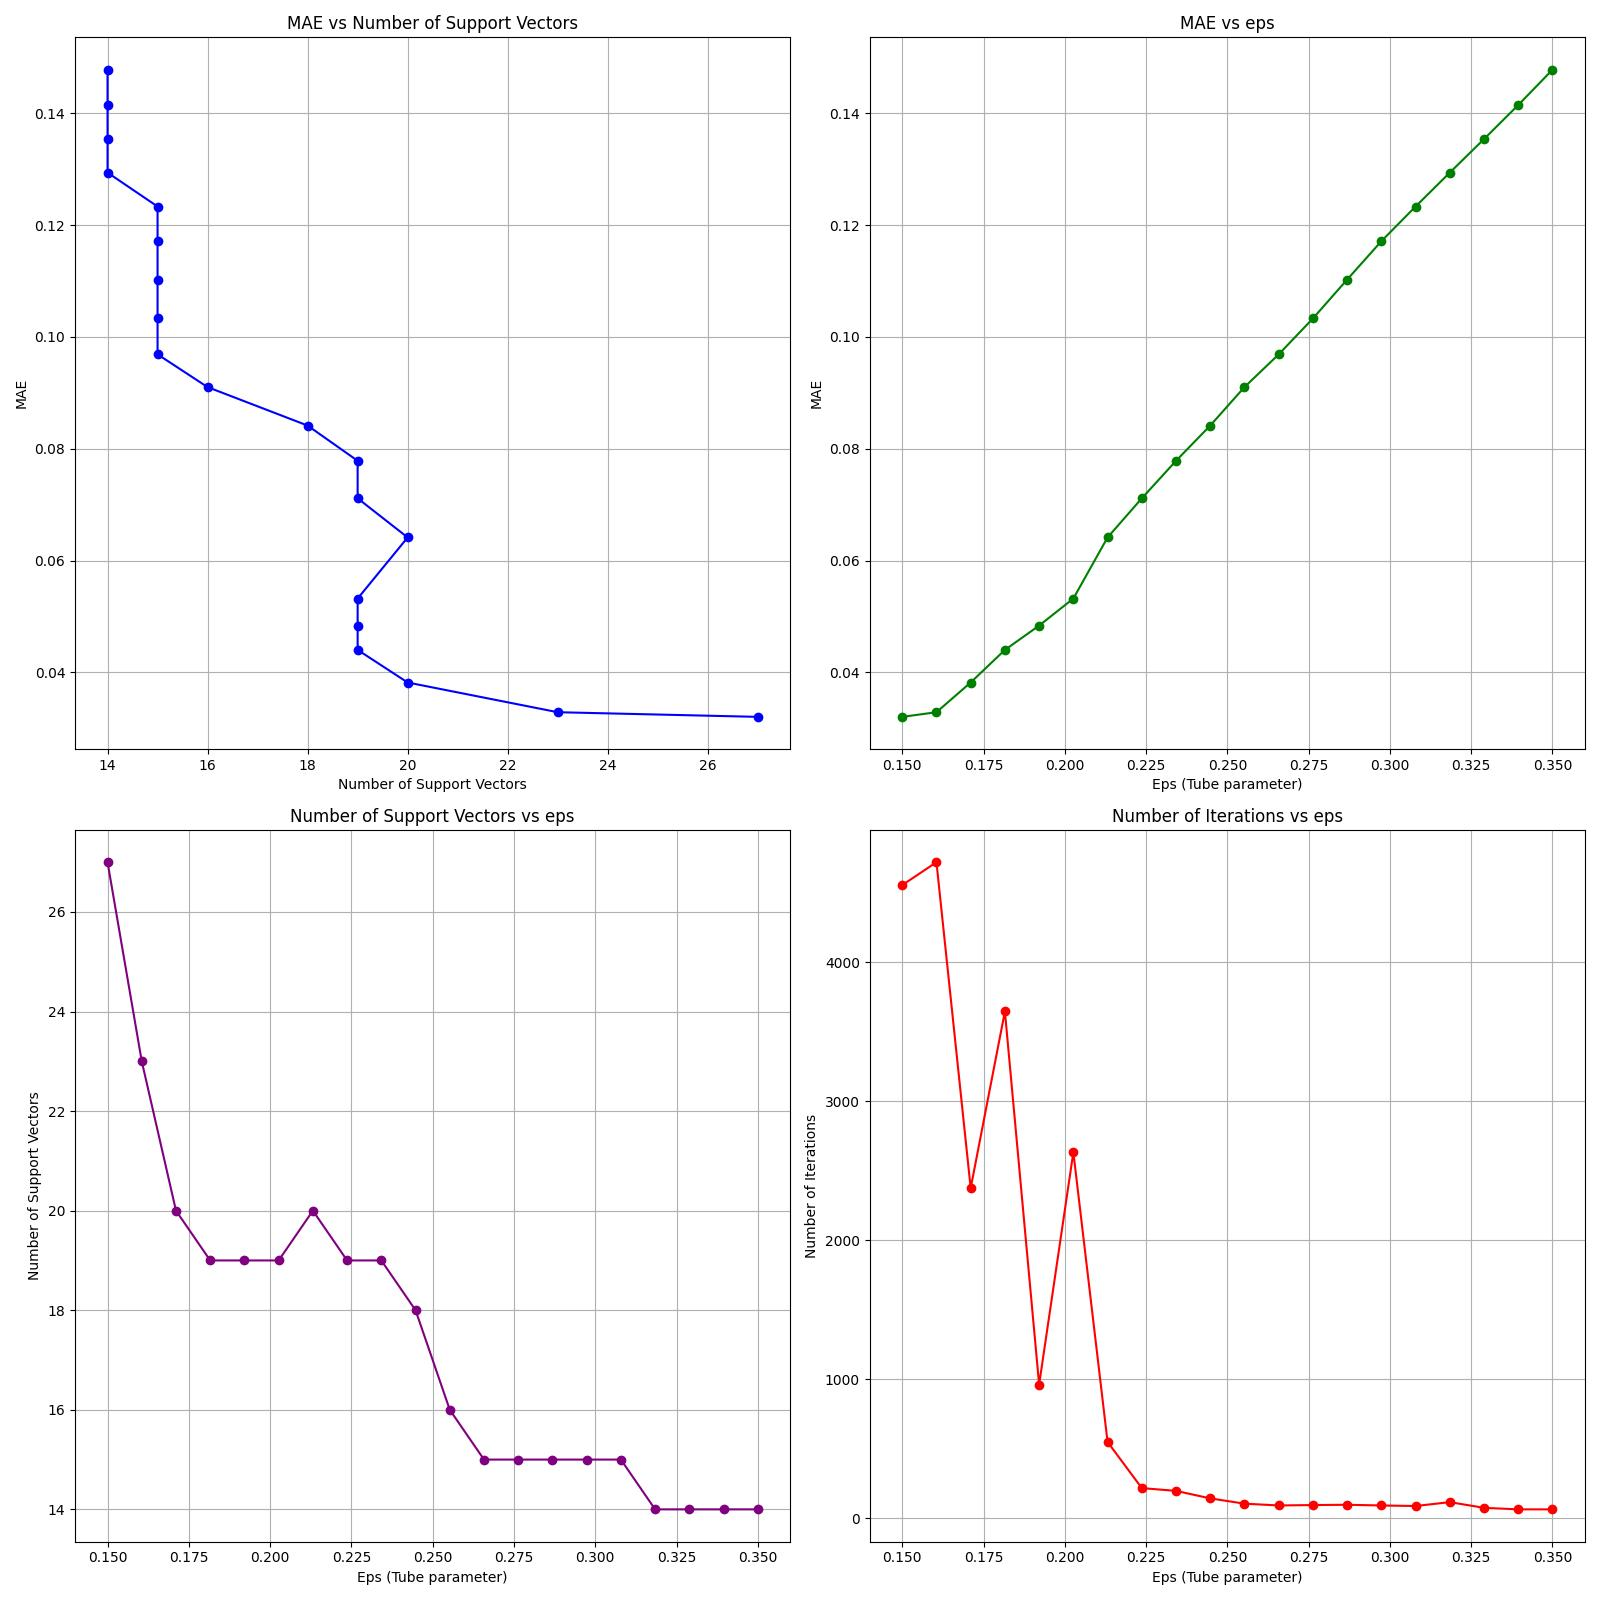
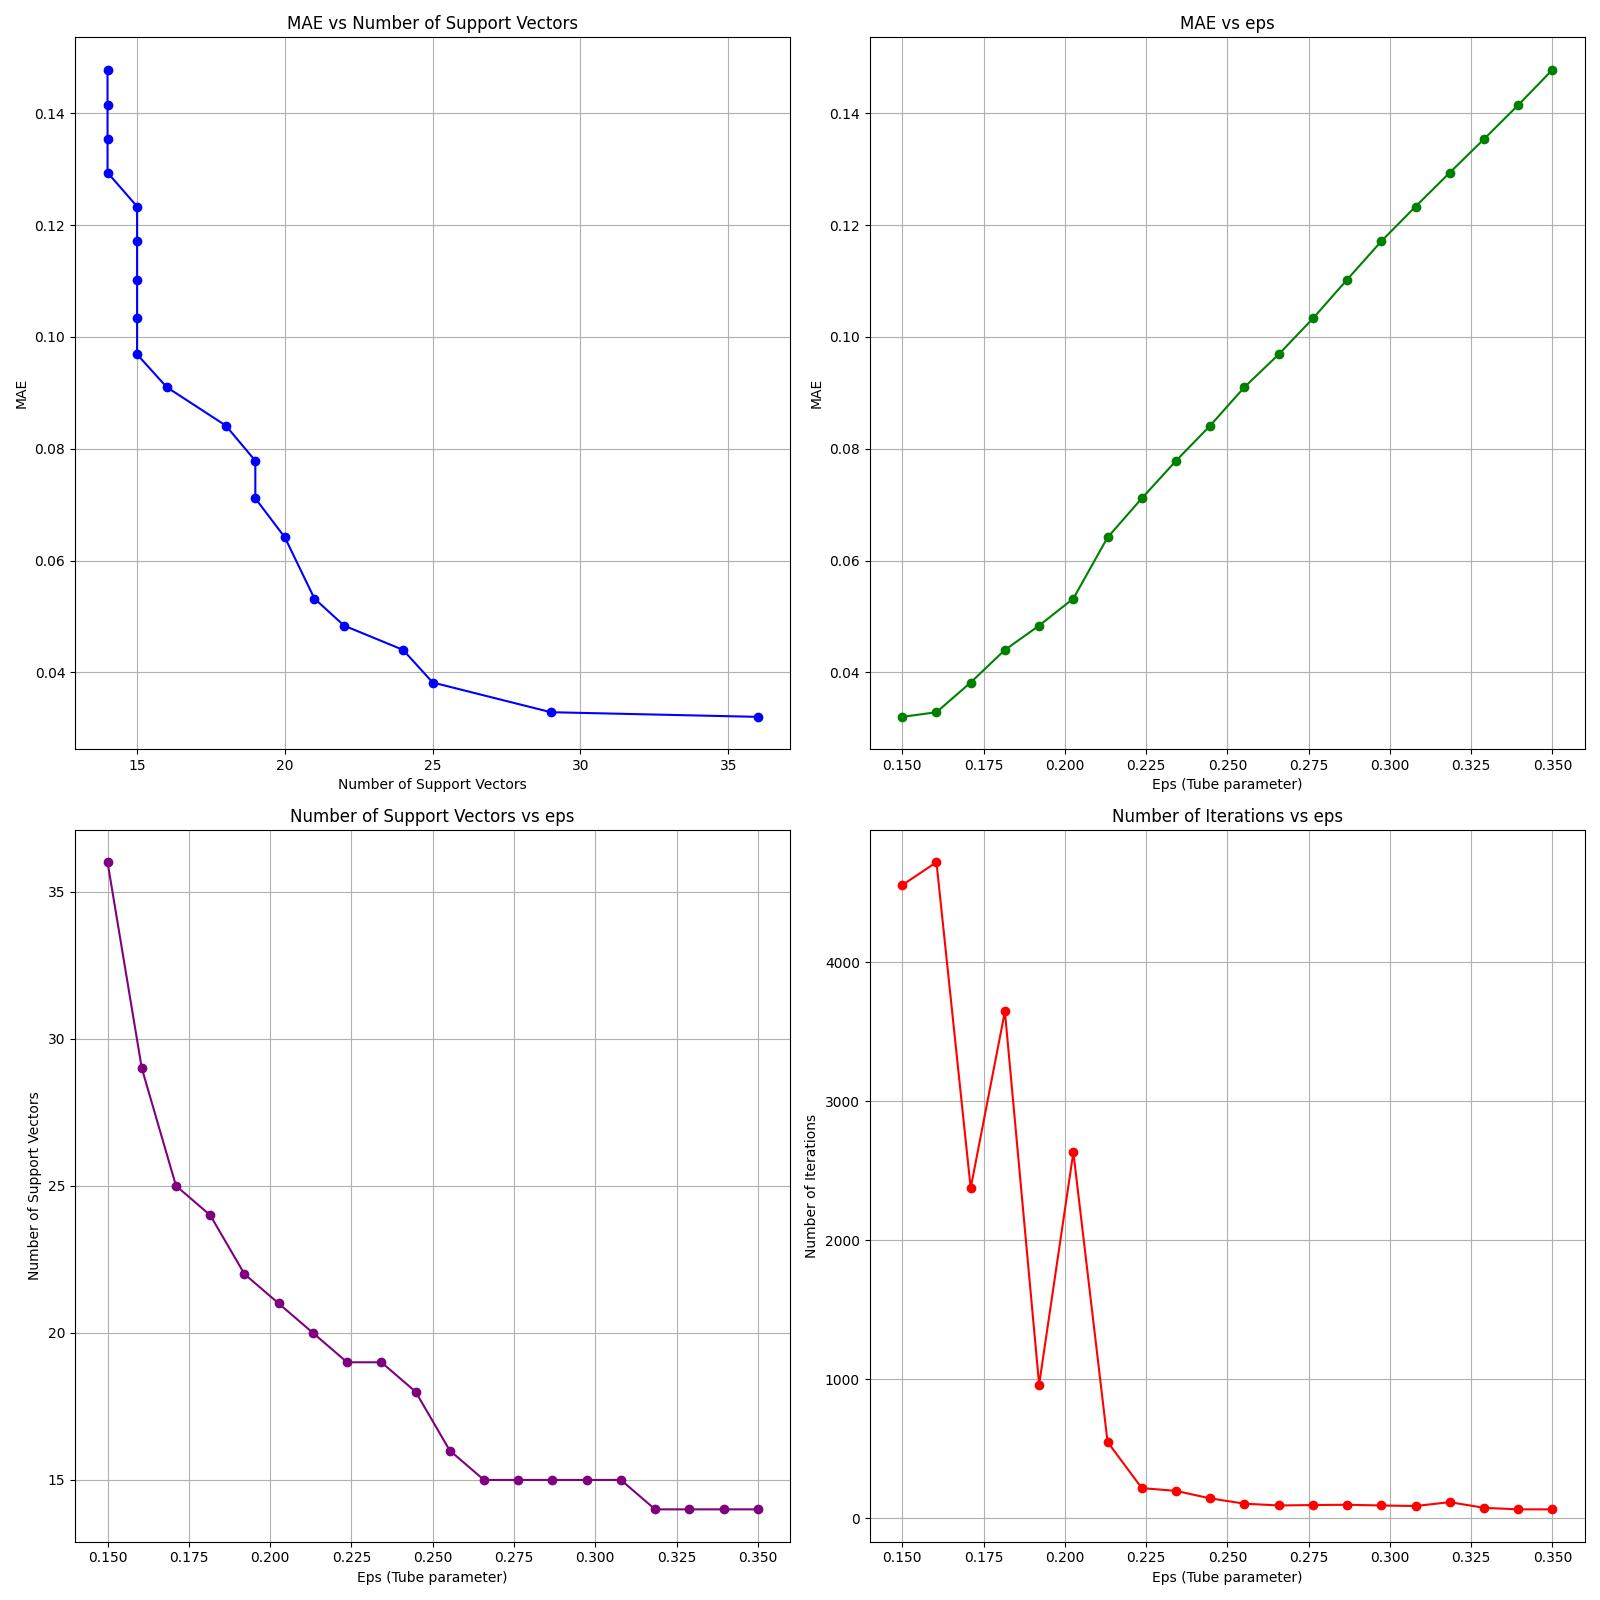
Add

diff --git a/sor.py b/sor.py
@@ -100,7 +100,7 @@ def extract_support_vectors(a, x_train, C):
     support_vector_indices = []
 
     for i in range(l):
-        if (0 < a[i] < C and np.isclose(a[i+l], 0)) or (0 < a[i + l] < C and np.isclose(a[i], 0)):  # Проверяем условия для a_i и a_i^*
+        if (0 < a[i] and np.isclose(a[i+l], 0)) or (0 < a[i + l] and np.isclose(a[i], 0)):  # Проверяем условия для a_i и a_i^*
             support_vector_indices.append(i)
 
     support_vectors = x_train[support_vector_indices]
@@ -332,9 +332,9 @@ def study_mae_vs_support_vectors():
     plt.savefig("Amount_sv_vs_MAE.jpg")
     plt.show()
 
-study_mae_vs_support_vectors()
+# study_mae_vs_support_vectors()
 
-# sinc_test()
-# test_without_noise()
+sinc_test()
+test_without_noise()
 
 # study_mae_vs_support_vectors()
